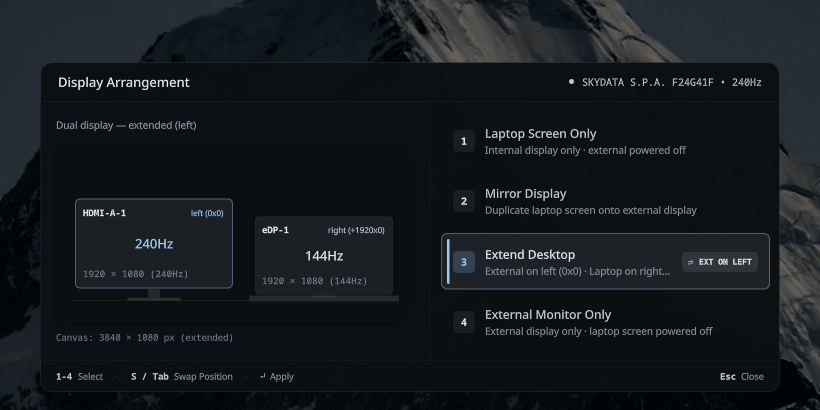
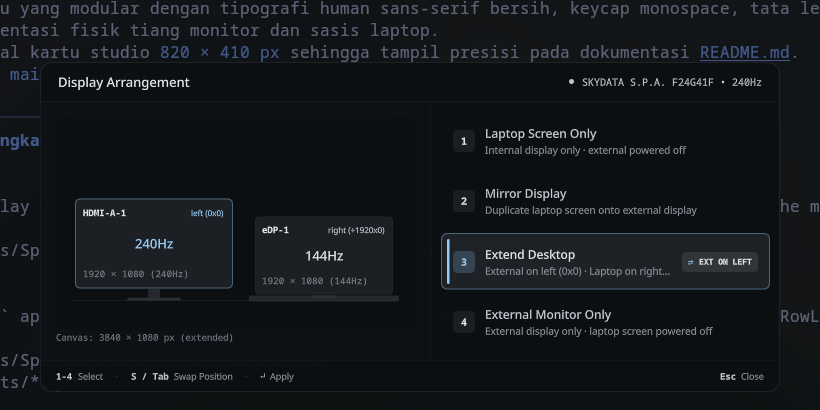
style(ui): remove redundant mode context label and update screenshot

diff --git a/quickshell/components/SpatialArrangementViewport.qml b/quickshell/components/SpatialArrangementViewport.qml
@@ -36,37 +36,6 @@ Rectangle {
         anchors.margins: 16
         spacing: 8
 
-        // Mode Context Label (Human Sans-Serif)
-        RowLayout {
-            Layout.fillWidth: true
-            Text {
-                text: {
-                    if (root.previewMode === "extend") {
-                        return "Dual display — extended (" + (root.extendPosition === "left" ? "left" : (root.extendPosition === "right" ? "right" : "top")) + ")";
-                    }
-                    if (root.previewMode === "mirror") return "Presentation — mirrored display";
-                    if (root.previewMode === "laptop_only") return "Internal display only";
-                    return "External display only";
-                }
-                font.family: root.fontSans
-                font.pixelSize: 10
-                font.weight: Font.Normal
-                color: root.themeColors.subtext0 || "#c9c7b6"
-                opacity: (root.previewMode !== root.currentMode) ? 1.0 : 0.75
-                Behavior on opacity { NumberAnimation { duration: 150 } }
-            }
-            Item { Layout.fillWidth: true }
-            // "Previewing" badge
-            Text {
-                visible: (root.previewMode !== root.currentMode)
-                text: "preview"
-                font.family: root.fontMono
-                font.pixelSize: 8
-                color: Qt.alpha(root.themeColors.mauve || "#cacb77", 0.65)
-                opacity: visible ? 1.0 : 0.0
-                Behavior on opacity { NumberAnimation { duration: 150 } }
-            }
-        }
 
         // Spatial Geometry Canvas Container
         Item {
